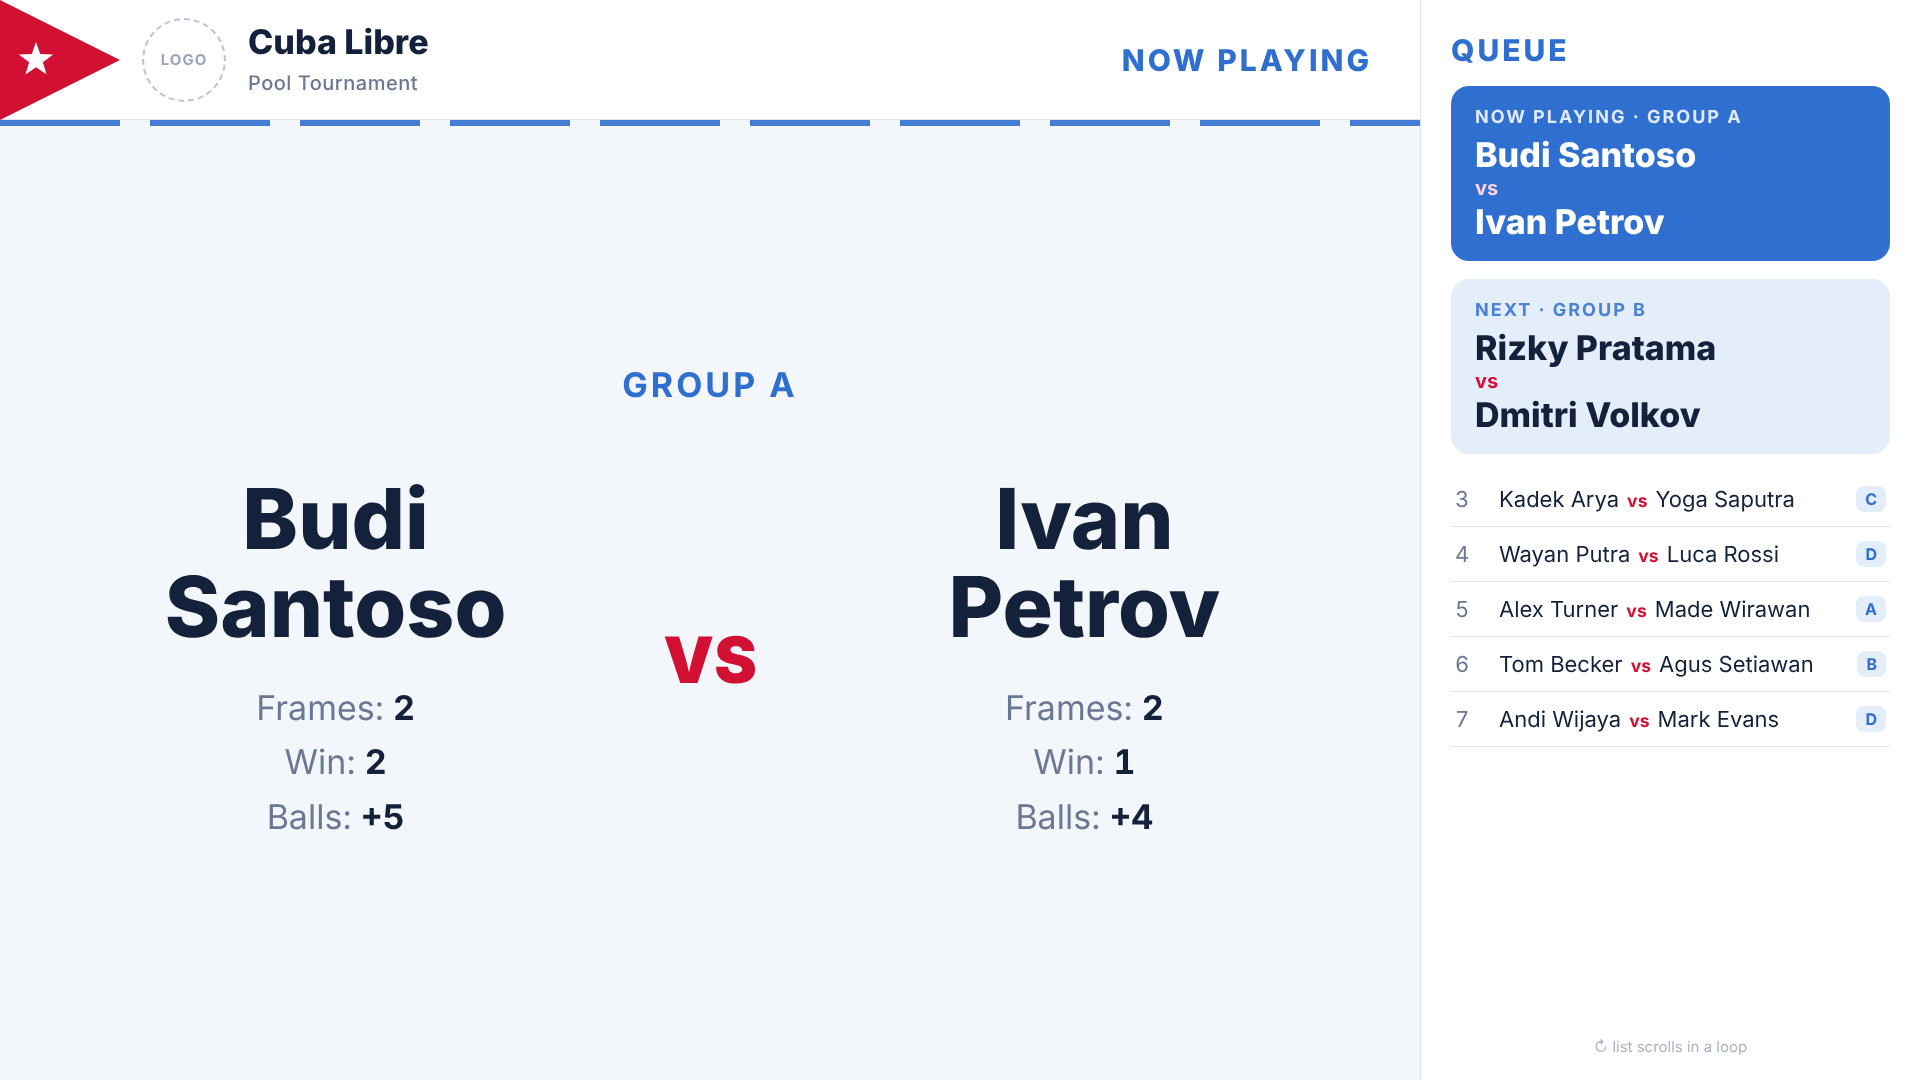
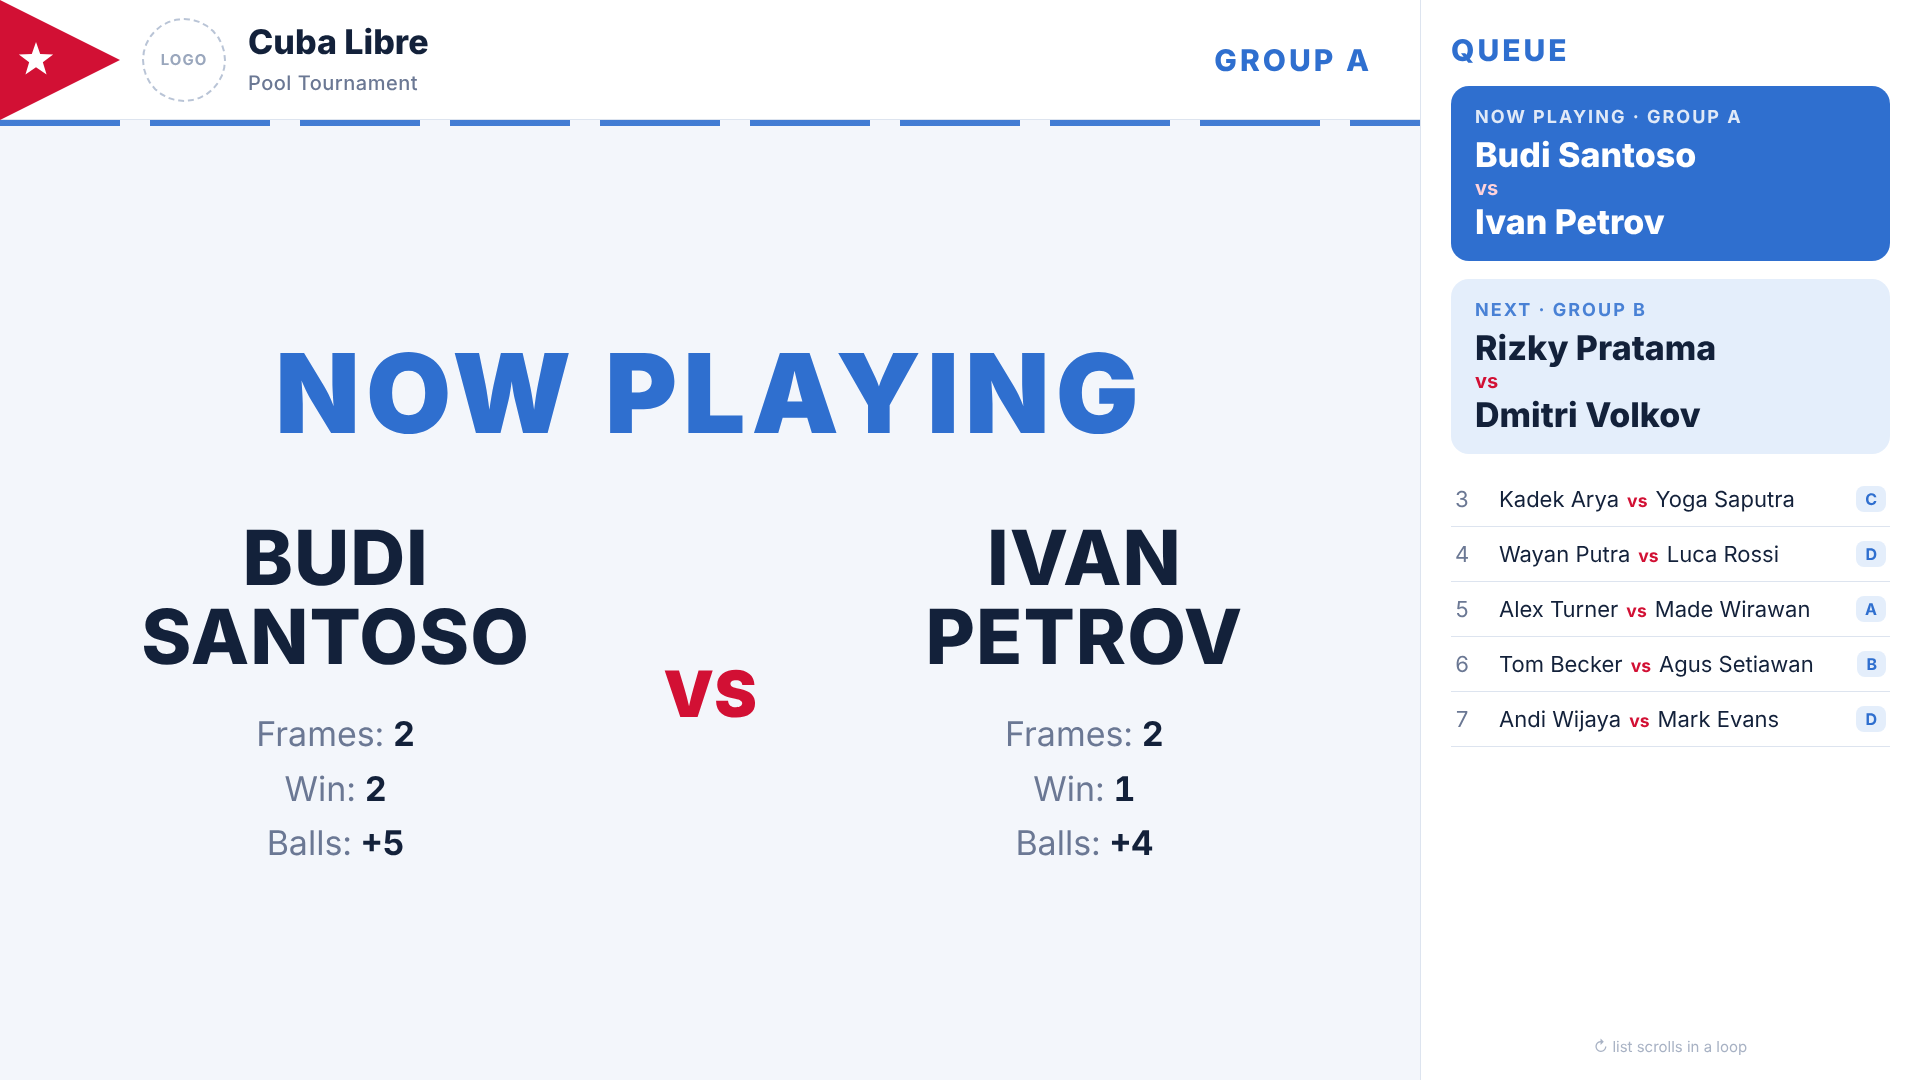
Макеты v2 по комментариям с доски: стартовый экран, NOW PLAYING / NEXT MATCH, турнирная сетка
Claude-Session: https://claude.ai/code/session_011yXgzSCi6qVWrDtUY6ogUV

diff --git a/docs/mockups/src/tv.css b/docs/mockups/src/tv.css
@@ -85,17 +85,22 @@ table.cross td.loss { color: #111; font-weight: 600; }
 .duel .stats { margin-top: 30px; font-size: 34px; color: var(--muted); line-height: 1.6; font-variant-numeric: tabular-nums; }
 .duel .stats b { color: var(--ink); }
 .duel .vs { font-size: 64px; font-weight: 900; color: var(--red); }
-.duel .sub { grid-column: 1 / -1; text-align: center; font-size: 34px; color: var(--blue); font-weight: 700; letter-spacing: 3px; text-transform: uppercase; }
-.duel.next .pname { font-size: 96px; }
+.duel .sub { grid-column: 1 / -1; text-align: center; font-size: 110px; line-height: 1; color: var(--blue); font-weight: 900; letter-spacing: 6px; text-transform: uppercase; }
+.duel .pname { text-transform: uppercase; letter-spacing: 1px; }
+.duel .pname { font-size: 76px; }
+.duel.next .pname { font-size: 84px; }
 
-/* Плей-офф */
-.bracket { height: 100%; display: grid; grid-template-columns: 1fr 1fr; grid-template-rows: 1fr 1fr; gap: 40px 90px; align-items: center; }
-.bm { background: var(--card); border: 2px solid var(--line); border-radius: 18px; padding: 22px 30px; }
-.bm .t { font-size: 20px; text-transform: uppercase; letter-spacing: 2px; color: var(--muted); font-weight: 700; margin-bottom: 10px; }
-.bm .p { font-size: 36px; font-weight: 700; padding: 8px 0; color: #a8b2c4; font-style: italic; border-top: 1px solid var(--line); }
-.bm .p:first-of-type { border-top: none; }
-.bm.final { border-color: var(--red); }
+/* Плей-офф: турнирная сетка */
+.bracket { position: relative; height: 100%; }
+.bracket svg.lines { position: absolute; inset: 0; width: 100%; height: 100%; }
+.bracket .col-t { position: absolute; top: 0; font-size: 20px; font-weight: 800; letter-spacing: 3px; color: var(--muted); text-transform: uppercase; }
+.bm { position: absolute; background: var(--card); border: 2px solid var(--line); border-radius: 16px; overflow: hidden; }
+.bm .t { font-size: 17px; text-transform: uppercase; letter-spacing: 2px; color: var(--muted); font-weight: 800; padding: 12px 22px 6px; }
+.bm .p { display: flex; justify-content: space-between; align-items: center; font-size: 32px; font-weight: 700; padding: 14px 22px; color: #a8b2c4; font-style: italic; border-top: 1px solid var(--line); }
+.bm .p span.s { font-style: normal; font-size: 18px; font-weight: 700; color: var(--blue); background: var(--blue-soft); border-radius: 8px; padding: 3px 10px; }
+.bm.final { border-color: var(--red); border-width: 3px; }
 .bm.final .t { color: var(--red); }
+.bm.third { border-style: dashed; }
 .bm.third .t { color: var(--blue); }
 
 /* Блок очереди (справа, всегда виден) */
@@ -133,3 +138,13 @@ body.splash { grid-template-columns: 1fr; }
 .splash-wrap .video { margin-top: 40px; font-size: 22px; color: #a8b2c4; }
 
 .mock-note { position: absolute; left: 48px; bottom: 12px; font-size: 15px; color: #a8b2c4; }
+
+/* Стартовый экран */
+.choose { display: flex; gap: 36px; justify-content: center; margin-top: 56px; }
+.choose .opt { width: 440px; border-radius: 24px; padding: 34px 30px; text-align: center; background: #fff; border: 3px solid var(--line); box-shadow: 0 6px 24px rgba(19,33,58,.08); }
+.choose .opt .ic { font-size: 64px; line-height: 1; }
+.choose .opt .nm { font-size: 38px; font-weight: 800; margin-top: 16px; }
+.choose .opt .ds { font-size: 22px; color: var(--muted); margin-top: 8px; }
+.choose .opt.tv { background: var(--blue); border-color: var(--blue); color: #fff; }
+.choose .opt.tv .ds { color: #dce8fb; }
+.choose .opt.admin .nm { color: var(--red); }

diff --git a/docs/mockups/src/tv-6-playoff.html b/docs/mockups/src/tv-6-playoff.html
@@ -1,7 +1,13 @@
 <!doctype html><html lang="en"><head><meta charset="utf-8"><title>Play-off</title><link rel="stylesheet" href="tv.css"><script src="data.js"></script></head><body><main><script>document.write(headerHtml('Play-off'))</script>
 <div class="content"><div class="bracket">
-<div class="bm"><div class="t">Semi-final 1</div><div class="p">Seed 1 — TBD</div><div class="p">Seed 4 — TBD</div></div>
-<div class="bm third"><div class="t">3rd place</div><div class="p">Loser SF1</div><div class="p">Loser SF2</div></div>
-<div class="bm"><div class="t">Semi-final 2</div><div class="p">Seed 2 — TBD</div><div class="p">Seed 3 — TBD</div></div>
-<div class="bm final"><div class="t">Final</div><div class="p">Winner SF1</div><div class="p">Winner SF2</div></div>
+<div class="col-t" style="left:0">Semi-finals</div><div class="col-t" style="left:760px">Final</div>
+<svg class="lines" viewBox="0 0 1324 888" preserveAspectRatio="none">
+<path d="M520 205 H640 V385 H760" fill="none" stroke="#9db8e3" stroke-width="4"/>
+<path d="M520 565 H640 V385" fill="none" stroke="#9db8e3" stroke-width="4"/>
+<path d="M640 475 V700 H760" fill="none" stroke="#c9d3e3" stroke-width="3" stroke-dasharray="10 8"/>
+</svg>
+<div class="bm" style="left:0;top:105px;width:520px"><div class="t">Semi-final 1</div><div class="p">TBD <span class="s">Seed 1</span></div><div class="p">TBD <span class="s">Seed 4</span></div></div>
+<div class="bm" style="left:0;top:465px;width:520px"><div class="t">Semi-final 2</div><div class="p">TBD <span class="s">Seed 2</span></div><div class="p">TBD <span class="s">Seed 3</span></div></div>
+<div class="bm final" style="left:760px;top:285px;width:564px"><div class="t">Final</div><div class="p">Winner SF1</div><div class="p">Winner SF2</div></div>
+<div class="bm third" style="left:760px;top:610px;width:564px"><div class="t">3rd place · played before the final</div><div class="p">Loser SF1</div><div class="p">Loser SF2</div></div>
 </div></div></main><script>document.write(queueHtml())</script></body></html>

diff --git a/docs/mockups/src/tv-5-next-match.html b/docs/mockups/src/tv-5-next-match.html
@@ -1,3 +1,3 @@
-<!doctype html><html lang="en"><head><meta charset="utf-8"><title>Next match</title><link rel="stylesheet" href="tv.css"><script src="data.js"></script></head><body><main><script>document.write(headerHtml('Next match'))</script>
+<!doctype html><html lang="en"><head><meta charset="utf-8"><title>Next match</title><link rel="stylesheet" href="tv.css"><script src="data.js"></script></head><body><main><script>document.write(headerHtml('Group B'))</script>
 <div class="content"><div class="duel next" id="d"></div></div></main><script>document.write(queueHtml())</script>
-<script>const [g,a,b]=QUEUE[1];document.getElementById('d').innerHTML=`<div class="sub">Group ${g} · get ready</div><div class="side"><div class="pname">${a.replace(' ','<br>')}</div></div><div class="vs">VS</div><div class="side"><div class="pname">${b.replace(' ','<br>')}</div></div>`</script></body></html>
+<script>const [g,a,b]=QUEUE[1];document.getElementById('d').innerHTML=`<div class="sub">Next match</div><div class="side"><div class="pname">${a.replace(' ','<br>')}</div></div><div class="vs">VS</div><div class="side"><div class="pname">${b.replace(' ','<br>')}</div></div>`</script></body></html>

diff --git a/docs/mockups/src/tv-4-now-playing.html b/docs/mockups/src/tv-4-now-playing.html
@@ -1,4 +1,4 @@
-<!doctype html><html lang="en"><head><meta charset="utf-8"><title>Now playing</title><link rel="stylesheet" href="tv.css"><script src="data.js"></script></head><body><main><script>document.write(headerHtml('Now playing'))</script>
+<!doctype html><html lang="en"><head><meta charset="utf-8"><title>Now playing</title><link rel="stylesheet" href="tv.css"><script src="data.js"></script></head><body><main><script>document.write(headerHtml('Group A'))</script>
 <div class="content"><div class="duel" id="d"></div></div></main><script>document.write(queueHtml())</script>
 <script>const [g,a,b]=QUEUE[0];const st=(n)=>{const s=statsOf(n);return `<div class="side"><div class="pname">${n.replace(' ','<br>')}</div><div class="stats">Frames: <b>${s.frames}</b><br>Win: <b>${s.win}</b><br>Balls: <b>+${s.balls}</b></div></div>`};
-document.getElementById('d').innerHTML=`<div class="sub">Group ${g}</div>`+st(a)+'<div class="vs">VS</div>'+st(b)</script></body></html>
+document.getElementById('d').innerHTML='<div class="sub">Now playing</div>'+st(a)+'<div class="vs">VS</div>'+st(b)</script></body></html>

diff --git a/docs/mockups/src/tv-0-start.html b/docs/mockups/src/tv-0-start.html
@@ -1,0 +1,9 @@
+<!doctype html><html lang="en"><head><meta charset="utf-8"><title>Start</title><link rel="stylesheet" href="tv.css"><script src="data.js"></script></head><body class="splash"><div class="splash-wrap">
+<div class="stripes"></div>
+<svg class="big-flag" viewBox="0 0 100 174" preserveAspectRatio="none"><polygon points="0,0 100,87 0,174" fill="#D21034"/></svg>
+<svg style="position:absolute;left:90px;top:440px;width:200px;height:200px" viewBox="0 0 100 100"><polygon points="50,5 61.8,38.2 97.6,38.2 68.5,58.8 79.4,92.6 50,71.8 20.6,92.6 31.5,58.8 2.4,38.2 38.2,38.2" fill="#fff"/></svg>
+<div class="center"><div class="logo" style="width:200px;height:200px;margin-bottom:30px;font-size:24px">BAR LOGO</div><h1 style="font-size:88px">Cuba Libre<br>Pool Tournament</h1>
+<div class="choose">
+<div class="opt tv"><div class="ic">📺</div><div class="nm">Scoreboard</div><div class="ds">Open on the TV</div></div>
+<div class="opt admin"><div class="ic">🔒</div><div class="nm">Admin panel</div><div class="ds">Password required</div></div>
+</div></div></div></body></html>

diff --git a/docs/requirements.md b/docs/requirements.md
@@ -173,6 +173,10 @@
   Balls: +4
   ```
   Frames — сыграно партий, Win — победы, Balls — шары.
+- **Слайд «Все группы»** показывает максимум 4 группы. Если групп больше, оставшиеся показываются на следующем слайде (или слайдах).
+- **Слайды «Сейчас играют» и «Следующий матч»:** по центру крупно синим надпись NOW PLAYING / NEXT MATCH, имена игроков только заглавными буквами. Группа матча — в заголовке слайда.
+- **Слайд «Плей-офф»** оформлен как турнирная сетка: полуфиналы слева, линии ведут к финалу, матч за 3-е место под финалом.
+- **Стартовый экран сайта:** две кнопки — «Scoreboard» (режим табло для телевизора) и «Admin panel» (вход в админ-панель по паролю).
 - **Справа всегда виден фиксированный блок с очередью.**
   - Следующие 2 матча выделены особенно крупно.
   - Остальные матчи медленно прокручиваются. Дойдя до конца очереди, список возвращается в начало и прокручивается снова.

diff --git a/docs/mockups/README.md b/docs/mockups/README.md
@@ -6,6 +6,7 @@
 
 | Файл | Слайд |
 |---|---|
+| `tv-0-start.png` | Стартовый экран: табло или админ-панель |
 | `tv-1-splash.png` | Заглушка до старта |
 | `tv-2-all-groups.png` | Все группы (30 с) |
 | `tv-3-group.png` | Одна группа: таблица и таблица пересечений (5 с на группу) |
